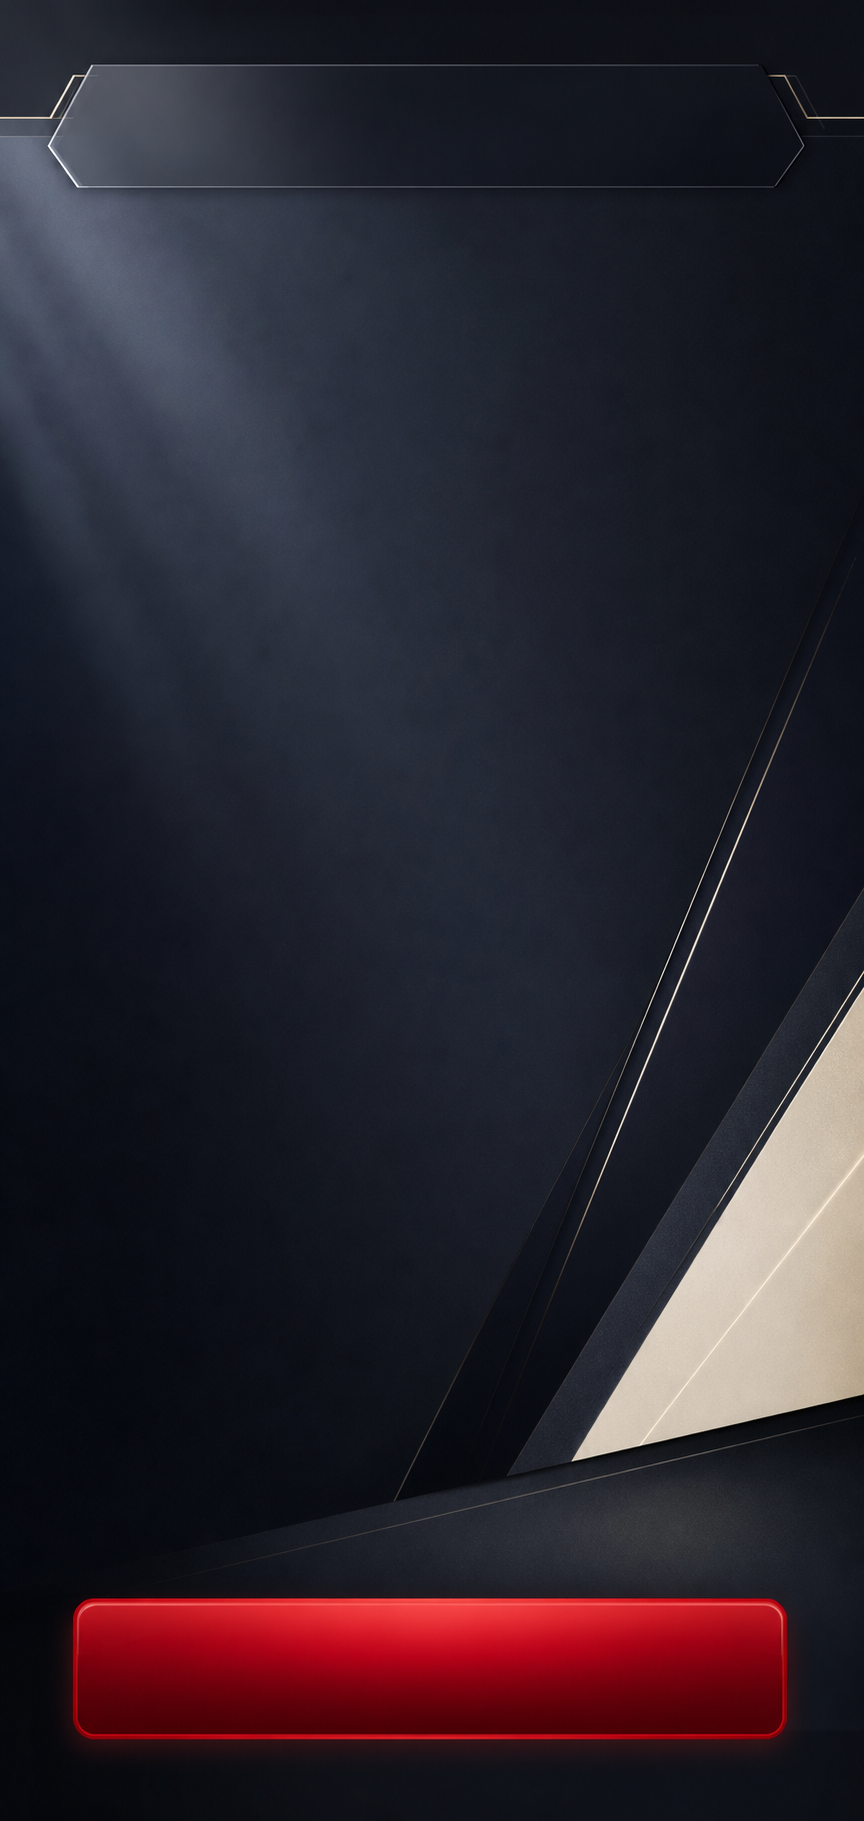
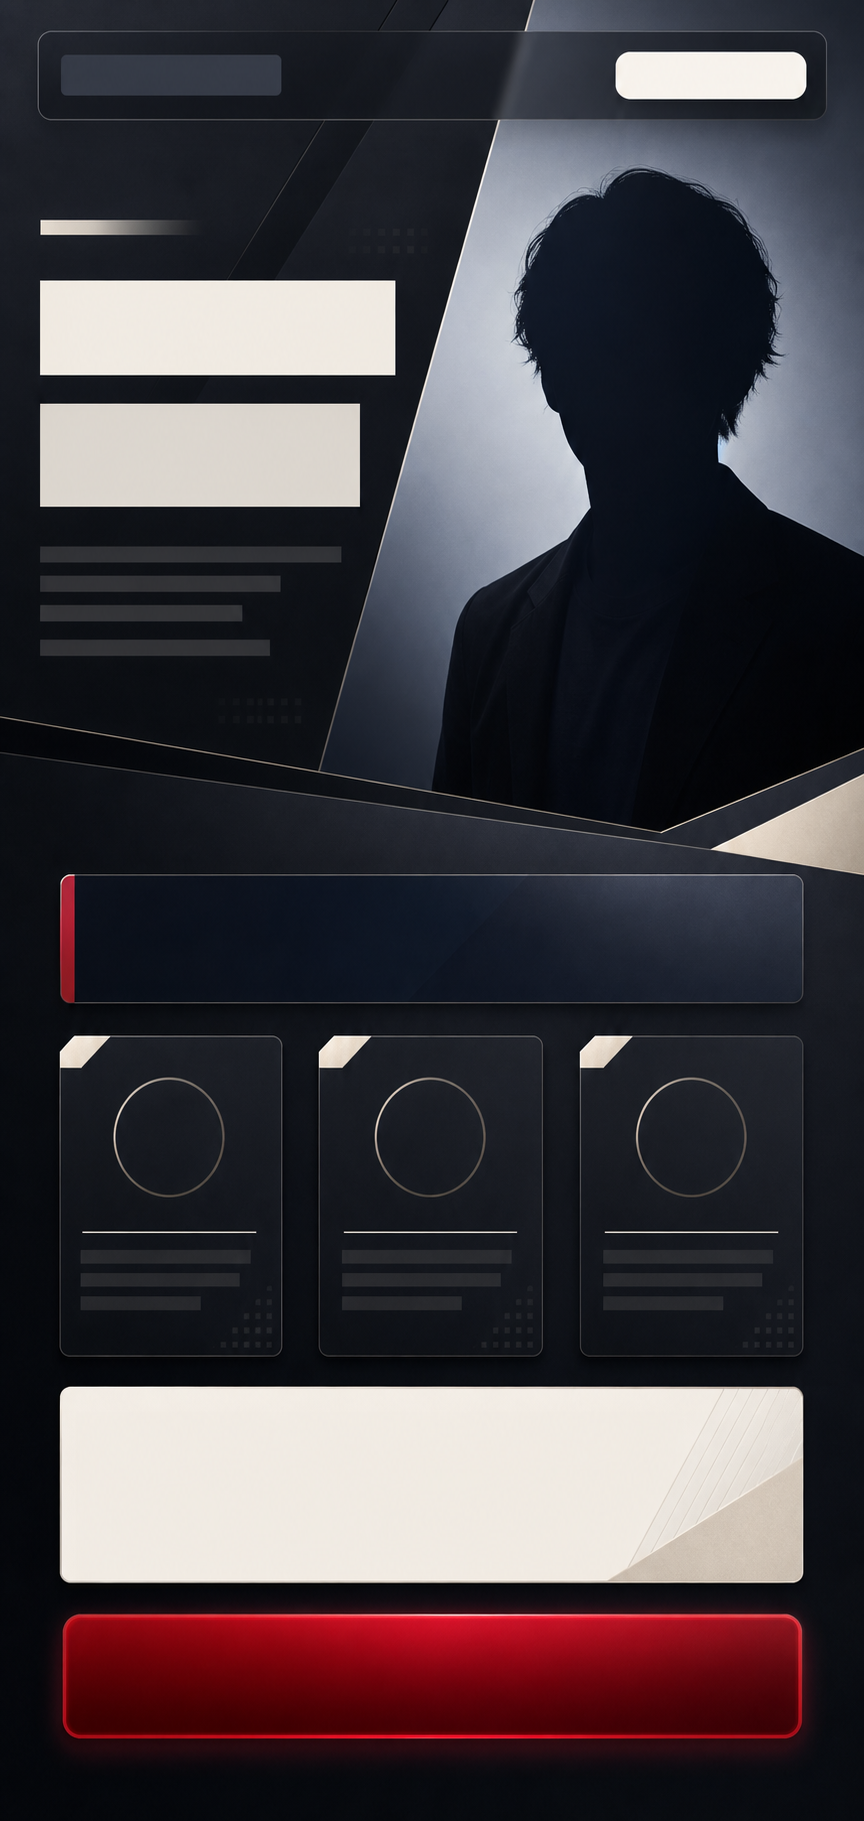
Use Image2 section templates

diff --git a/index.html b/index.html
@@ -278,7 +278,7 @@
       inset: 0;
       z-index: 0;
       background: url("assets/image2-hero-premium.png") center top / cover no-repeat;
-      opacity: .36;
+      opacity: .86;
       pointer-events: none;
     }
     .hero::after {
@@ -287,22 +287,26 @@
       inset: 0;
       z-index: 2;
       background:
-        linear-gradient(90deg, rgba(7,9,13,.98) 0%, rgba(7,9,13,.78) 39%, rgba(7,9,13,.08) 72%),
-        linear-gradient(0deg, #07090d 0%, rgba(7,9,13,.95) 34%, rgba(7,9,13,.16) 67%, transparent 84%);
+        linear-gradient(90deg, rgba(7,9,13,.86) 0%, rgba(7,9,13,.66) 42%, rgba(7,9,13,.18) 76%),
+        linear-gradient(0deg, rgba(7,9,13,.98) 0%, rgba(7,9,13,.78) 38%, rgba(7,9,13,.08) 70%, transparent 84%);
       pointer-events: none;
     }
     .hero-photo {
       position: absolute; top: 0; right: 0;
-      width: 66%; height: 1070px;
+      width: 58%; height: 880px;
+      top: 210px;
+      right: 52px;
       object-fit: cover; object-position: center 10%;
-      filter: contrast(1.03);
-      opacity: .92;
+      filter: contrast(1.05) saturate(.86);
+      opacity: .38;
+      border-radius: 0 0 18px 18px;
+      clip-path: polygon(16% 0, 100% 0, 100% 100%, 0 100%);
       z-index: 1;
     }
     .hero-copy {
       position: relative;
       z-index: 3;
-      padding: 610px 68px 90px;
+      padding: 560px 68px 90px;
       text-shadow: 0 3px 18px rgba(0,0,0,.9);
     }
     .hero-copy .section-label,
@@ -321,7 +325,7 @@
       color: #fff;
     }
     .page .intro-band .accent {
-      color: #fff;
+      color: #fff !important;
     }
     .story-photo {
       width: calc(100% + 156px);
@@ -467,12 +471,25 @@
       inset: 0;
       z-index: -1;
       background: url("assets/image2-official-section.png") center top / cover no-repeat;
-      opacity: .18;
+      opacity: .36;
       pointer-events: none;
     }
     .image2-section .wrap {
       position: relative;
       z-index: 1;
+    }
+    .image2-section .wrap > p:not(.cta-note):not(.small),
+    .image2-section .wrap > .lead {
+      padding: 22px 28px;
+      border-radius: 16px;
+      background: rgba(246,242,234,.82);
+      backdrop-filter: blur(4px);
+    }
+    .image2-section .intro-band p,
+    .image2-section .intro-band .lead {
+      padding: 0;
+      background: transparent;
+      backdrop-filter: none;
     }
     .official-bar {
       position: absolute;

diff --git a/lp.html b/lp.html
@@ -278,7 +278,7 @@
       inset: 0;
       z-index: 0;
       background: url("assets/image2-hero-premium.png") center top / cover no-repeat;
-      opacity: .36;
+      opacity: .86;
       pointer-events: none;
     }
     .hero::after {
@@ -287,22 +287,26 @@
       inset: 0;
       z-index: 2;
       background:
-        linear-gradient(90deg, rgba(7,9,13,.98) 0%, rgba(7,9,13,.78) 39%, rgba(7,9,13,.08) 72%),
-        linear-gradient(0deg, #07090d 0%, rgba(7,9,13,.95) 34%, rgba(7,9,13,.16) 67%, transparent 84%);
+        linear-gradient(90deg, rgba(7,9,13,.86) 0%, rgba(7,9,13,.66) 42%, rgba(7,9,13,.18) 76%),
+        linear-gradient(0deg, rgba(7,9,13,.98) 0%, rgba(7,9,13,.78) 38%, rgba(7,9,13,.08) 70%, transparent 84%);
       pointer-events: none;
     }
     .hero-photo {
       position: absolute; top: 0; right: 0;
-      width: 66%; height: 1070px;
+      width: 58%; height: 880px;
+      top: 210px;
+      right: 52px;
       object-fit: cover; object-position: center 10%;
-      filter: contrast(1.03);
-      opacity: .92;
+      filter: contrast(1.05) saturate(.86);
+      opacity: .38;
+      border-radius: 0 0 18px 18px;
+      clip-path: polygon(16% 0, 100% 0, 100% 100%, 0 100%);
       z-index: 1;
     }
     .hero-copy {
       position: relative;
       z-index: 3;
-      padding: 610px 68px 90px;
+      padding: 560px 68px 90px;
       text-shadow: 0 3px 18px rgba(0,0,0,.9);
     }
     .hero-copy .section-label,
@@ -321,7 +325,7 @@
       color: #fff;
     }
     .page .intro-band .accent {
-      color: #fff;
+      color: #fff !important;
     }
     .story-photo {
       width: calc(100% + 156px);
@@ -467,12 +471,25 @@
       inset: 0;
       z-index: -1;
       background: url("assets/image2-official-section.png") center top / cover no-repeat;
-      opacity: .18;
+      opacity: .36;
       pointer-events: none;
     }
     .image2-section .wrap {
       position: relative;
       z-index: 1;
+    }
+    .image2-section .wrap > p:not(.cta-note):not(.small),
+    .image2-section .wrap > .lead {
+      padding: 22px 28px;
+      border-radius: 16px;
+      background: rgba(246,242,234,.82);
+      backdrop-filter: blur(4px);
+    }
+    .image2-section .intro-band p,
+    .image2-section .intro-band .lead {
+      padding: 0;
+      background: transparent;
+      backdrop-filter: none;
     }
     .official-bar {
       position: absolute;